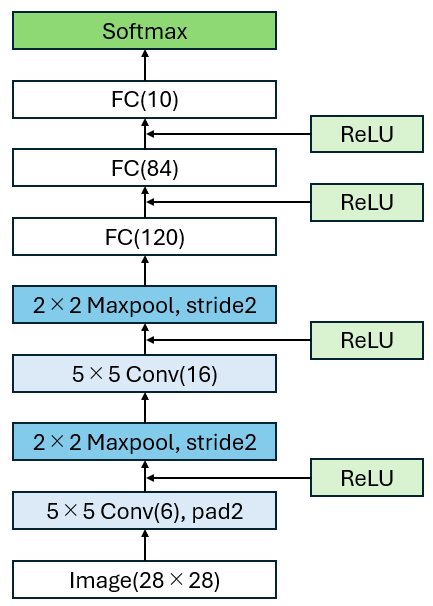
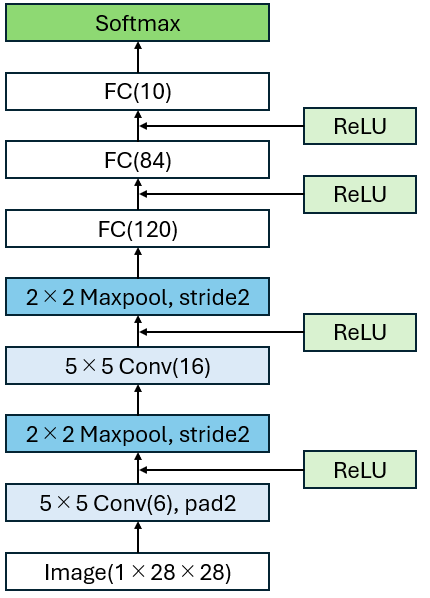
update README

Changed region(s): [[0.0, 0.0, 0.9977, 0.9933]]

diff --git a/README.md b/README.md
@@ -18,7 +18,7 @@
 - Google Colab でそのまま実行可能
 
 ## ネットワーク構造
-本モデルは2つの畳込み層とプーリング層，3つの全結合層から構成されています.
+本モデルは28×28のグレースケール画像を入力として,2つの畳込み層とプーリング層，3つの全結合層から構成されています.
 中間層にReLu関数を使用し，最終層でSoftmax関数に基づく10クラス分類をおこなっています．
 
 以下に本モデルのネットワーク構造のブロック図を示します.

diff --git a/README_EN.md b/README_EN.md
@@ -33,8 +33,8 @@ for **5 epochs**, achieving an **accuracy of 98.6%** and a **loss of 4.3%**.
 
 ## Network Architecture
 
-The model consists of **two convolutional layers with pooling layers**
-followed by **three fully connected layers**.
+The model takes **28×28 grayscale images** as input and consists of **two convolutional layers**
+and **two pooling layers**, followed by **three fully connected layers**.
 ReLU activation functions are used in the intermediate layers, and
 **10-class classification based on Softmax** is performed at the final layer.
 
